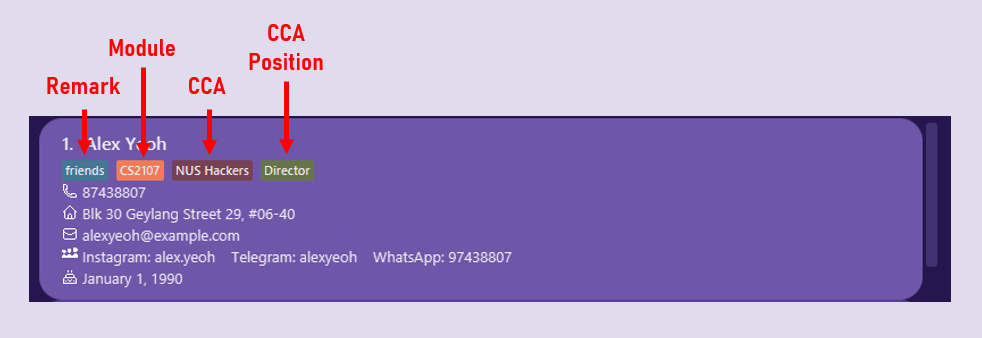
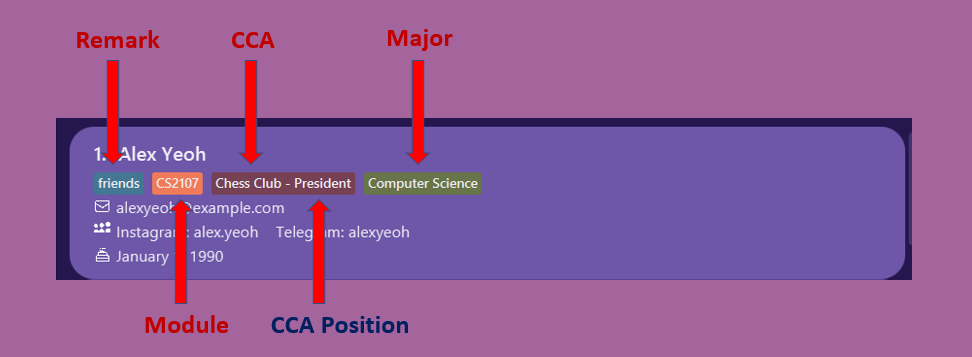
update picture

diff --git a/docs/UserGuide.md b/docs/UserGuide.md
@@ -839,17 +839,22 @@ There are four kinds of tags in ConnectUS. They are Module Tags, Major Tags, CCA
 
 If you wish to assign a CCA Position to a contact, you can do so with the CCA prefix as well!
 * Format: `cca/CCA#CCA_POSITION`
-
+* CCA_POSITION is optional, however if you enter # after CCA you are expected to enter a CCA_NAME.
+* Example: If you have a contact who is the President of the Chess Club, you can use the field `cca/Chess Club#President` to assign that CCA tag to them.
+* Example: If you have a contact who is a member of the Arts Club, but you do not know their position, you can use the field `cca/Arts Club` to assign just CCA.
 
 [↑ Back to prefix list](#5-information-fields--prefixes)
 
 
-### 5.9.3 Major Tags: `major/`
+### 5.9.3 Major Tags: `maj/`
 >Major tags refer to Majors that you can assign to a contact to keep track of the majors that the contact is taking.
 
 * Major is an *optional* field, i.e. a contact can exist even if it does not have a Major.
+* The prefix for a major is `maj/`.
 * Major names should be <u>alphanumeric</u>, and can contain spaces.
 * A contact can have a maximum of 2 majors assigned to it.
+* If more than 2 majors are assigned during add command, the last 2 majors are taken.
+* If total number of majors after using add-t exceeds 2, the command is not accepted.
 
 
 [↑ Back to prefix list](#5-information-fields--prefixes)
